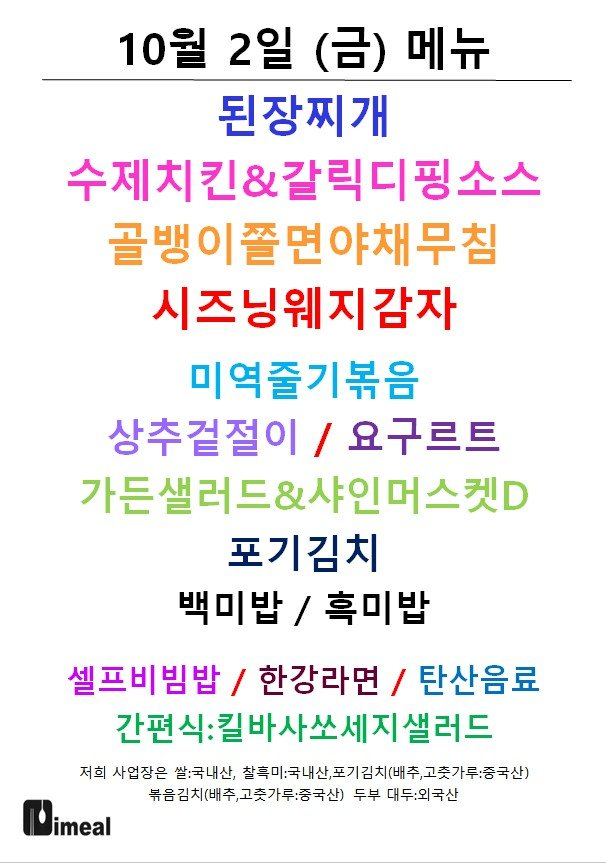
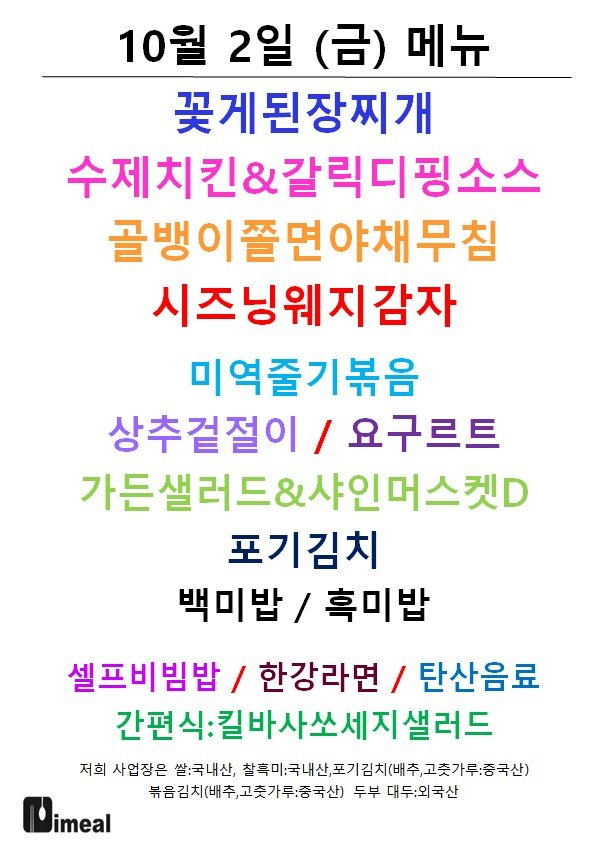
Update menu board assets

diff --git a/menu-today/index.html b/menu-today/index.html
@@ -209,7 +209,7 @@
 
     <section class="meta-bar">
       <div class="meta-card"><div class="meta-label">기준 날짜</div><div class="meta-value">2026년 10월 2일 금요일</div></div>
-      <div class="meta-card"><div class="meta-label">최종 가져온 시간</div><div class="meta-value">2026-10-02 10:48:12</div></div>
+      <div class="meta-card"><div class="meta-label">최종 가져온 시간</div><div class="meta-value">2026-10-02 11:03:38</div></div>
       <div class="meta-card"><div class="meta-label">확인 완료</div><div class="meta-value">9개 식당</div></div>
       <div class="meta-card"><div class="meta-label">준비중</div><div class="meta-value">3개 채널</div></div>
     </section>
@@ -225,7 +225,7 @@
             <div class="sub">현대테라타워 가산DK</div>
           </div>
         </div>
-        <div class="menu-inline-image"><img src="./images/imeal.png" alt="아이밀 식단 이미지"></div><ul><li>된장찌개</li><li>수제치킨 &amp; 갈릭디핑소스</li><li>골뱅이폴면야채무침</li><li>시즈닝웨지감자</li><li>미역줄기볶음</li><li>상추겉절이 / 요구르트</li><li>포기김치</li><li>백미밥 / 흑미밥</li><li>사츠커전</li><li>이 / 요구르트</li><li>상주겉절이 / 요구르트</li></ul>
+        <div class="menu-inline-image"><img src="./images/imeal.png" alt="아이밀 식단 이미지"></div><ul><li>꽂게된장찌개</li><li>수제치킨 &amp; (갈릭디핑소스</li><li>시즈닝웨지감자</li><li>미역줄기볶음</li><li>상추겉절이 / 요구르트</li><li>포기김치</li><li>백미밥 / 흑미밥</li><li>꽃게된장찌개</li><li>골뱅이폴면야채무침</li><li>사츠커져</li><li>이 / 요구르트</li></ul>
       </article>
 
       <article class="restaurant-card">

diff --git a/guro-menu/index.html b/guro-menu/index.html
@@ -32,7 +32,7 @@
   </header>
   <section class="meta">
     <div><small>기준 날짜</small><strong>2026년 10월 2일 금요일</strong></div>
-    <div><small>최종 갱신</small><strong>2026-10-02 10:48:28</strong></div>
+    <div><small>최종 갱신</small><strong>2026-10-02 11:03:54</strong></div>
     <div><small>등록 식당</small><strong>5개</strong></div>
   </section>
   <div class="notice">공개 카카오 채널의 메뉴 이미지를 자동 수집하고 OCR로 정리합니다. 텍스트에 오타가 있을 수 있으니 식단 이미지를 함께 확인해 주세요.</div>
